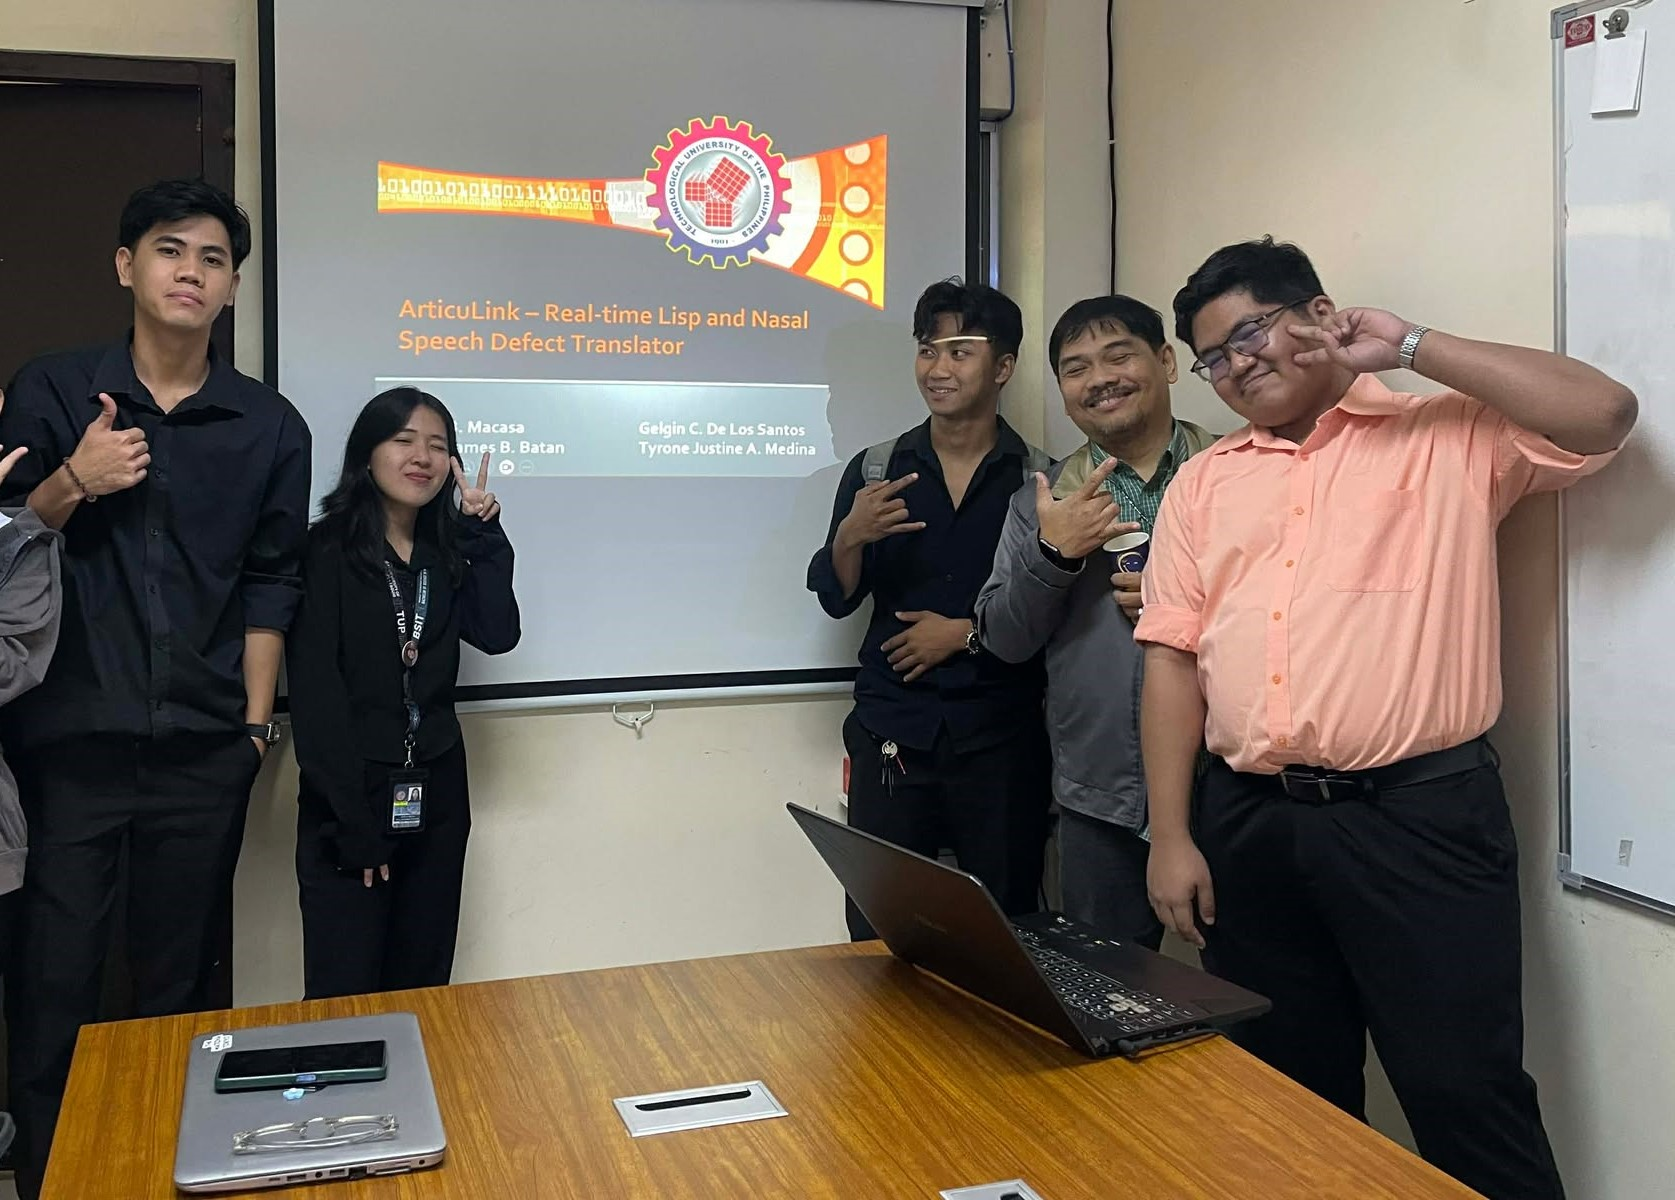
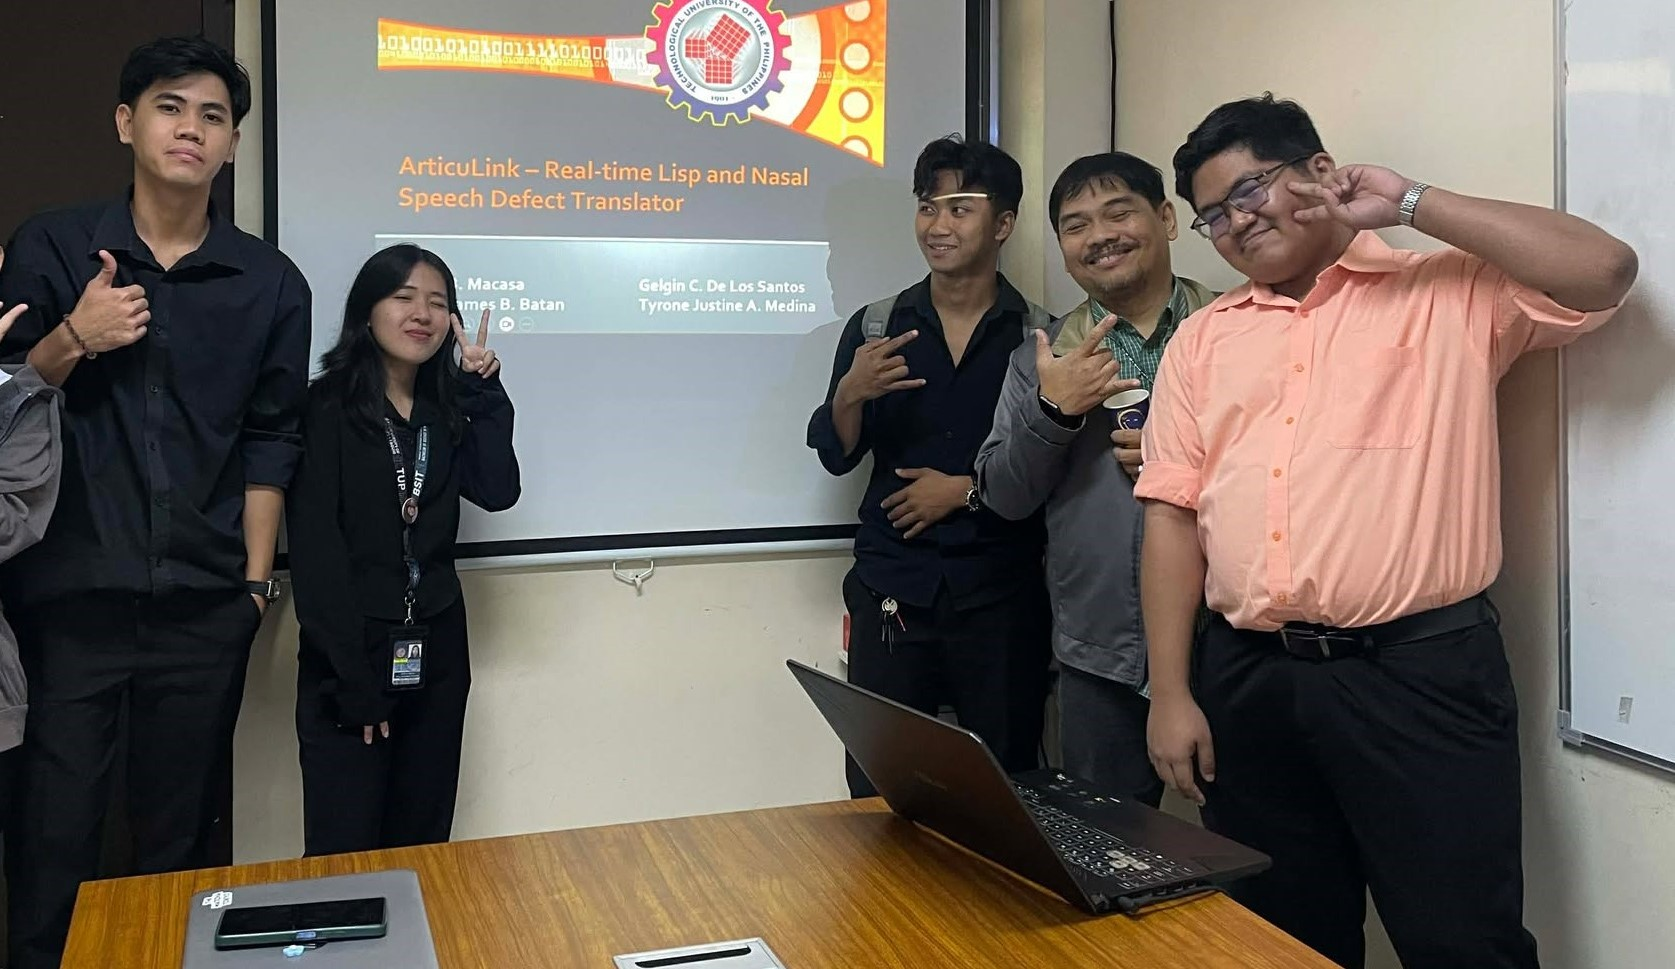
updates

diff --git a/src/app/about/page.tsx b/src/app/about/page.tsx
@@ -3,7 +3,7 @@
 import React from "react";
 import Image from "next/image";
 import Link from "next/link";
-import { motion } from "framer-motion";
+import { motion, AnimatePresence } from "framer-motion";
 import {
   Heart,
   Users,
@@ -41,6 +41,16 @@ const C = {
 };
 
 export default function About() {
+  const [iconIndex, setIconIndex] = React.useState(0);
+  const icons = ["/images/app-icon.png", "/images/app-icon-white.png"];
+
+  React.useEffect(() => {
+    const timer = setInterval(() => {
+      setIconIndex((prev) => (prev + 1) % icons.length);
+    }, 3000);
+    return () => clearInterval(timer);
+  }, [icons.length]);
+
   return (
     <main className="min-h-screen" style={{ backgroundColor: C.cream }}>
       {/* ═══════════════ HERO ═══════════════ */}
@@ -89,27 +99,39 @@ export default function About() {
               </p>
             </motion.div>
 
-            {/* Hero Image Placeholder */}
+            {/* Hero Image */}
             <motion.div
               initial={{ opacity: 0, scale: 0.9 }}
               animate={{ opacity: 1, scale: 1 }}
               transition={{ duration: 0.8, delay: 0.2 }}
+              className="flex justify-center lg:justify-end"
             >
               <div
-                className="w-full aspect-[4/3] rounded-[3rem] flex items-center justify-center"
+                className="relative w-64 h-64 md:w-80 md:h-80 rounded-[4rem] flex items-center justify-center shadow-2xl overflow-hidden"
                 style={{
-                  backgroundColor: C.warmWhite,
-                  border: `2px dashed ${C.sandMid}`,
+                  backgroundColor: "white",
+                  boxShadow: `0 30px 60px -12px ${C.sandMid}80, 0 18px 36px -18px rgba(0,0,0,0.1)`,
                 }}
               >
-                <div className="text-center">
-                  <Heart className="w-12 h-12 mx-auto mb-4" style={{ color: C.sandMid }} />
-                  <p className="text-sm font-semibold" style={{ color: C.sandMid }}>
-                    Team / Product Photo
-                  </p>
-                  <p className="text-xs mt-1" style={{ color: `${C.textMid}80` }}>
-                    Replace with actual image
-                  </p>
+                <div className="absolute inset-0 bg-gradient-to-br from-transparent to-teal-50/30" />
+                <div className="relative w-full h-full">
+                  <AnimatePresence mode="wait">
+                    <motion.div
+                      key={iconIndex}
+                      initial={{ opacity: 0, scale: 0.8, rotate: -10 }}
+                      animate={{ opacity: 1, scale: 1, rotate: 0 }}
+                      exit={{ opacity: 0, scale: 1.1, rotate: 10 }}
+                      transition={{ duration: 0.6, ease: "easeInOut" }}
+                      className="absolute inset-0"
+                    >
+                      <Image
+                        src={icons[iconIndex]}
+                        alt="Articulink App Icon"
+                        fill
+                        className="object-cover"
+                      />
+                    </motion.div>
+                  </AnimatePresence>
                 </div>
               </div>
             </motion.div>
@@ -286,18 +308,21 @@ export default function About() {
                 title: "Good Health & Well-being",
                 desc: "Articulink supports emotional and social well-being by providing a tool that helps individuals with speech challenges communicate more effectively.",
                 color: "#4C9F38",
+                image: "/images/sdg3.jfif",
               },
               {
                 number: "04",
                 title: "Quality Education",
                 desc: "We promote inclusive learning environments by ensuring that speech-impaired students have the technology to express their ideas clearly.",
                 color: "#C5192D",
+                image: "/images/sdg4.jfif",
               },
               {
                 number: "10",
                 title: "Reduced Inequalities",
                 desc: "By breaking down communication barriers, we empower individuals with lisp and hypernasal speech to participate fully in society.",
                 color: "#E11484",
+                image: "/images/sdg10.jfif",
               },
             ].map((sdg, i) => (
               <motion.div
@@ -308,17 +333,17 @@ export default function About() {
                 transition={{ duration: 0.5, delay: i * 0.1 }}
                 className="group text-center"
               >
-                {/* SDG Image Placeholder */}
+                {/* SDG Image */}
                 <div
-                  className="w-full aspect-square rounded-[2.5rem] mb-8 flex items-center justify-center relative overflow-hidden group-hover:scale-[1.02] transition-transform shadow-lg"
+                  className="w-full aspect-square rounded-[2.5rem] mb-8 relative overflow-hidden group-hover:scale-[1.02] transition-transform shadow-lg"
                   style={{ backgroundColor: sdg.color }}
                 >
-                  <div className="text-white p-8">
-                    <p className="text-6xl font-black mb-4 opacity-30">{sdg.number}</p>
-                    <p className="text-xs font-bold uppercase tracking-widest leading-relaxed">
-                      SDG {sdg.number} Image Placeholder
-                    </p>
-                  </div>
+                  <Image
+                    src={sdg.image}
+                    alt={sdg.title}
+                    fill
+                    className="object-cover"
+                  />
                 </div>
                 <h3 className="text-xl font-bold mb-4" style={{ color: C.textDark }}>
                   {sdg.title}
@@ -366,7 +391,7 @@ export default function About() {
             >
               {/* Client Image Placeholder */}
               <div
-                className="w-full h-48 flex items-center justify-center"
+                className="w-full h-[400px] flex items-center justify-center"
                 style={{
                   backgroundColor: C.sandLight,
                   borderBottom: `1px solid ${C.sandMid}50`,
@@ -443,7 +468,7 @@ export default function About() {
             >
               {/* Developer Image */}
               <div
-                className="w-full h-48 relative overflow-hidden"
+                className="w-full h-[400px] relative overflow-hidden"
                 style={{
                   borderBottom: `1px solid ${C.sandMid}50`,
                 }}
@@ -452,7 +477,7 @@ export default function About() {
                   src="/images/team-image.jpg"
                   alt="Articulink Development Team"
                   fill
-                  className="object-cover"
+                  className="object-cover object-top"
                 />
               </div>
 
@@ -472,7 +497,7 @@ export default function About() {
                 <p className="leading-relaxed mb-6" style={{ color: C.textMid }}>
                   {/* PLACEHOLDER — Replace with actual team description */}
                   The Articulink development team brings together expertise in information
-                  technology, artificial intelligence, and healthcare innovation to build
+                  technology, artificial intelligence, and communication technology to build
                   a platform that creates real-world impact through technology.
                 </p>
                 <div className="space-y-3">
@@ -483,10 +508,9 @@ export default function About() {
                     </span>
                   </div>
                   <div className="flex items-center gap-3">
-                    <Handshake className="w-4 h-4" style={{ color: C.royalBlue }} />
+                    <Mic className="w-4 h-4" style={{ color: C.royalBlue }} />
                     <span className="text-sm font-medium" style={{ color: C.textDark }}>
-                      {/* PLACEHOLDER */}
-                      Healthcare Innovation
+                      Speech & Communication Tech
                     </span>
                   </div>
                 </div>
